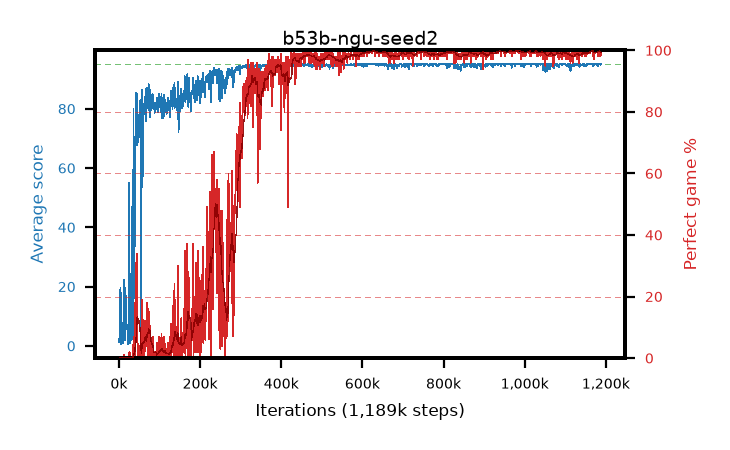
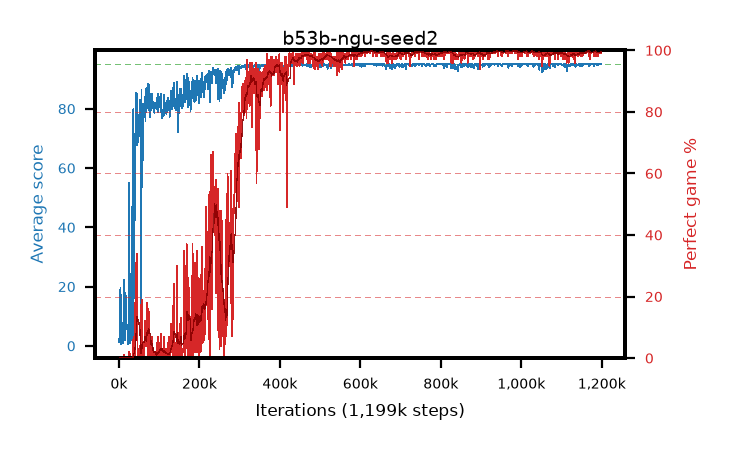
live pictures of 4 arm(s)

diff --git a/results/b53b-ngu-seed2/b53b-ngu-seed2.md b/results/b53b-ngu-seed2/b53b-ngu-seed2.md
@@ -1,6 +1,6 @@
 # b53b-ngu-seed2
 
-step **1,189,000** · 1189 evals · trailing **94.94** · peak **94.96** @1,028,000 · sef **73.8** · best30 **99.8** @983,000
+step **1,199,000** · 1199 evals · trailing **94.95** · peak **94.96** @1,028,000 · sef **74.0** · best30 **99.8** @983,000
 
 ## Config
 
@@ -80,15 +80,15 @@ step **1,189,000** · 1189 evals · trailing **94.94** · peak **94.96** @1,028,
 | 2000 | 6.04 | 3.73 | 0.0 | 19.0 | 3.28 | 0.0 | 0.4 |
 | 3000 | 18.06 | 8.5 | 1.0 | 40.0 | 15.298 | 0.0 | 0.4 |
 | ... | ... | ... | ... | ... | ... | ... | ... |
-| 1178000 | 95.0 | 94.93 | 95.0 | 95.0 | 193.702 | 100.0 | 0.4 |
-| 1179000 | 95.0 | 94.93 | 95.0 | 95.0 | 193.717 | 100.0 | 0.4 |
-| 1180000 | 94.34 | 94.91 | 46.0 | 95.0 | 191.017 | 98.0 | 0.4 |
-| 1181000 | 95.0 | 94.92 | 95.0 | 95.0 | 193.702 | 100.0 | 0.4 |
-| 1182000 | 95.0 | 94.95 | 95.0 | 95.0 | 193.717 | 100.0 | 0.4 |
-| 1183000 | 95.0 | 94.95 | 95.0 | 95.0 | 193.713 | 100.0 | 0.4 |
-| 1184000 | 95.0 | 94.95 | 95.0 | 95.0 | 193.705 | 100.0 | 0.4 |
-| 1185000 | 95.0 | 94.95 | 95.0 | 95.0 | 193.695 | 100.0 | 0.4 |
-| 1186000 | 94.95 | 94.95 | 92.0 | 95.0 | 191.61 | 98.0 | 0.4 |
-| 1187000 | 94.82 | 94.94 | 80.0 | 95.0 | 191.445 | 98.0 | 0.4 |
 | 1188000 | 95.0 | 94.94 | 95.0 | 95.0 | 193.695 | 100.0 | 0.4 |
 | 1189000 | 95.0 | 94.94 | 95.0 | 95.0 | 193.706 | 100.0 | 0.4 |
+| 1190000 | 94.81 | 94.94 | 81.0 | 95.0 | 191.42 | 98.0 | 0.4 |
+| 1191000 | 95.0 | 94.94 | 95.0 | 95.0 | 193.71 | 100.0 | 0.4 |
+| 1192000 | 95.0 | 94.94 | 95.0 | 95.0 | 193.7 | 100.0 | 0.4 |
+| 1193000 | 94.97 | 94.94 | 92.0 | 95.0 | 192.676 | 99.0 | 0.4 |
+| 1194000 | 95.0 | 94.94 | 95.0 | 95.0 | 193.709 | 100.0 | 0.4 |
+| 1195000 | 94.89 | 94.94 | 84.0 | 95.0 | 192.595 | 99.0 | 0.4 |
+| 1196000 | 95.0 | 94.94 | 95.0 | 95.0 | 193.71 | 100.0 | 0.4 |
+| 1197000 | 95.0 | 94.94 | 95.0 | 95.0 | 193.712 | 100.0 | 0.4 |
+| 1198000 | 94.97 | 94.94 | 92.0 | 95.0 | 192.677 | 99.0 | 0.4 |
+| 1199000 | 94.99 | 94.95 | 94.0 | 95.0 | 192.668 | 99.0 | 0.4 |
